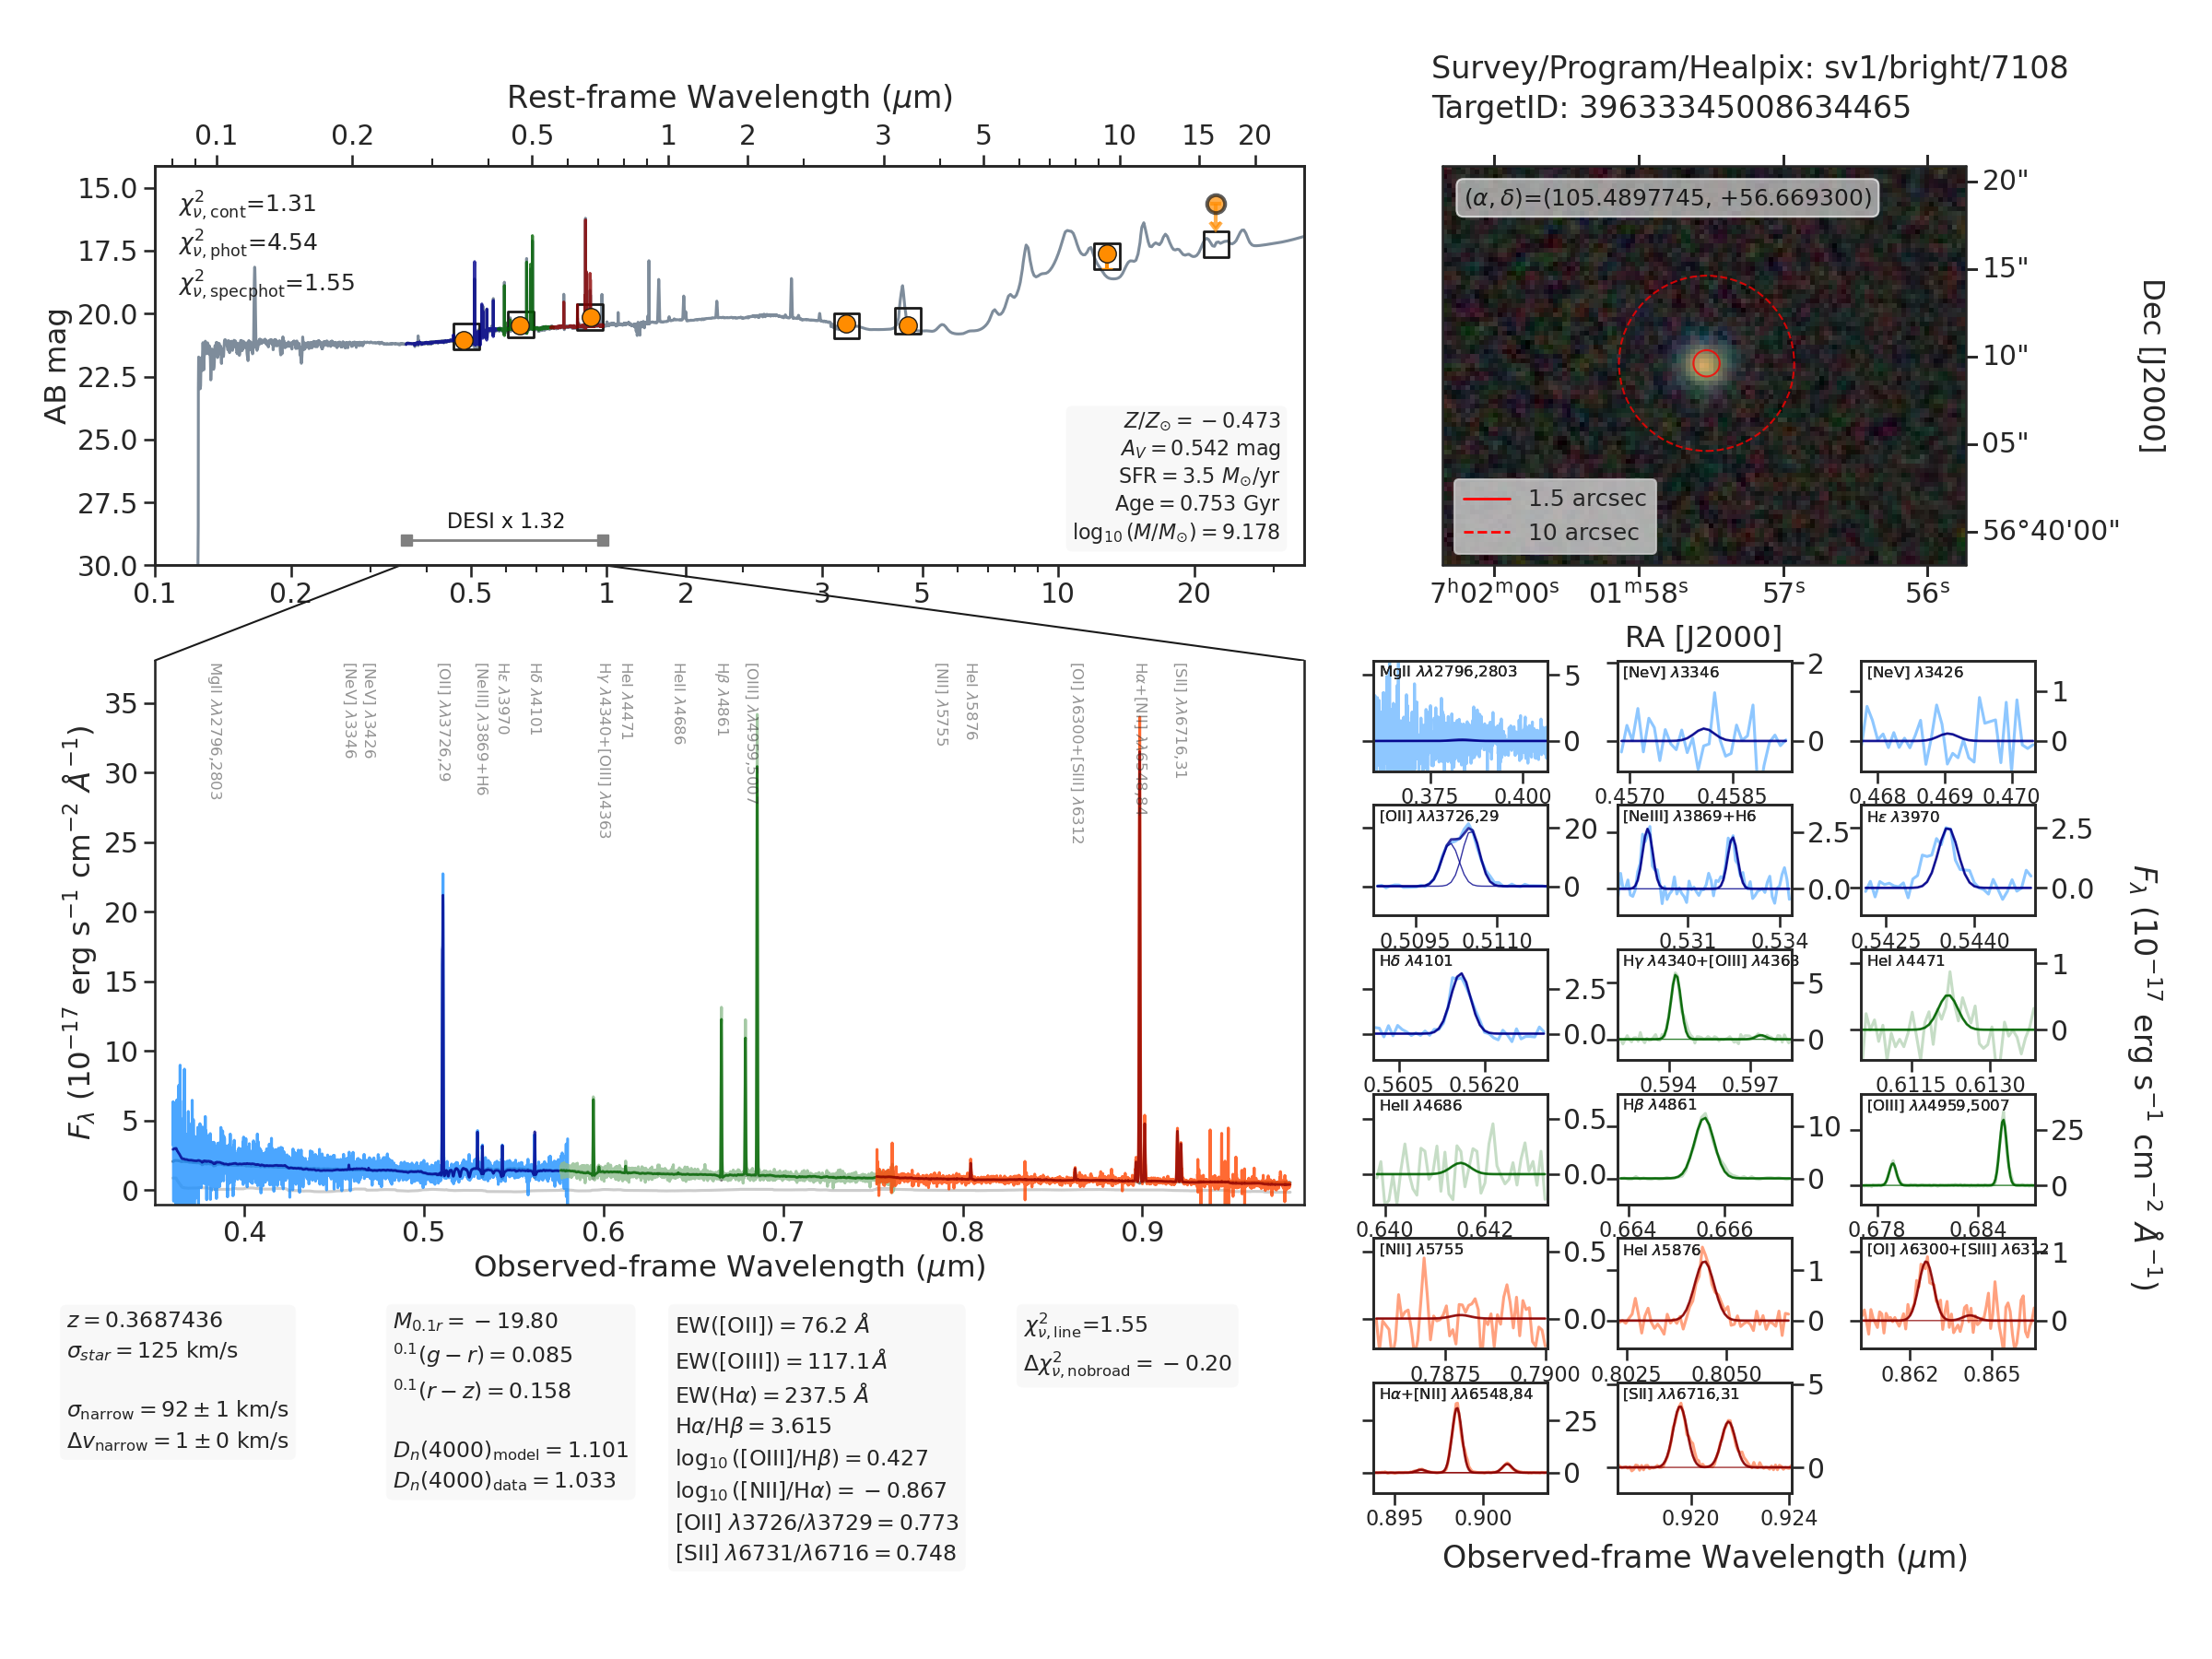
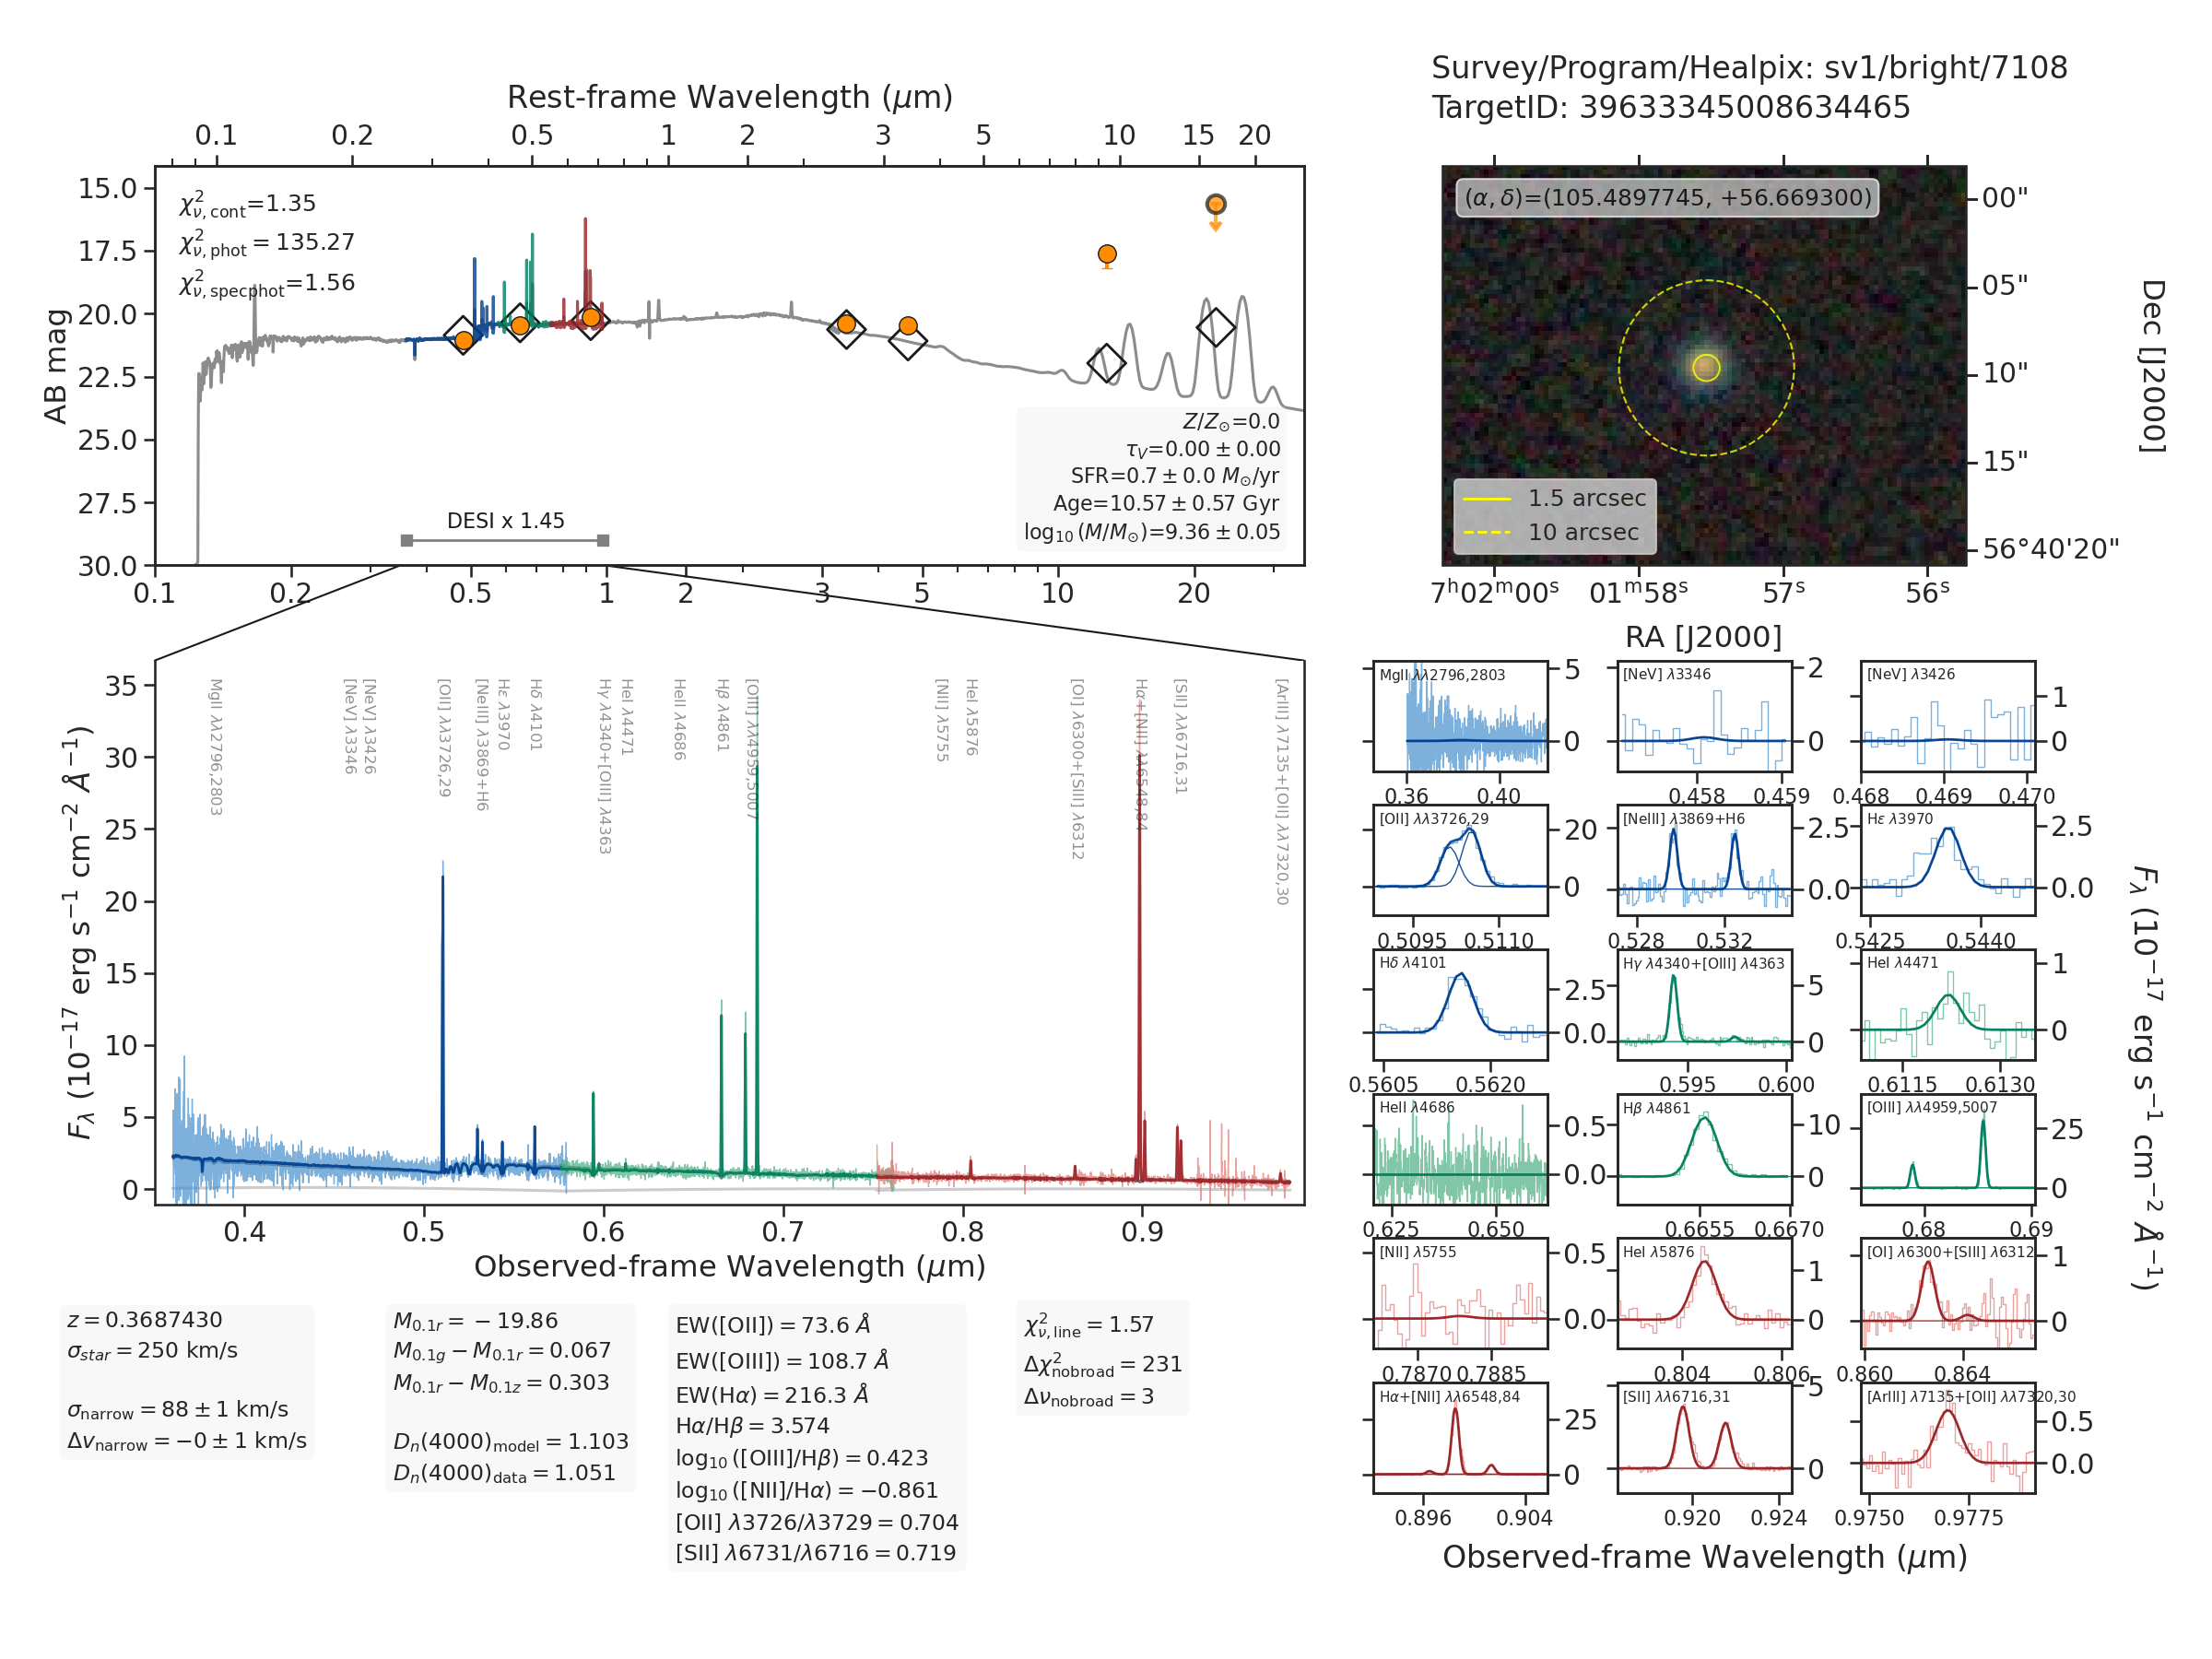
update fastspec and fastphot examples and figures

diff --git a/doc/running.rst b/doc/running.rst
@@ -117,7 +117,7 @@ of an input Redrock catalog, the ``targetid`` of the object of interest, and
 an output filename::
 
   fastspec $DESI_SPECTRO_REDUX/loa/healpix/sv1/bright/71/7108/redrock-sv1-bright-7108.fits \
-    --targetids 39633345008634465 --outfile fastspec-example.fits
+    --targetids 39633345008634465 --outfile ./fastspec-example.fits
 
 .. dropdown:: Click to view the logging output.
 
@@ -169,22 +169,25 @@ of the output file. Visualize the results using ``fastqa``::
 |
 
 .. figure:: _static/fastspec-sv1-bright-7108-39633345008634465.png
+   :target: _static/fastspec-sv1-bright-7108-39633345008634465.png
+
 
 The figure above succinctly summarizes the ``fastspec`` inputs and modeling
 results:
 
-  * *Upper-right panel*: *grz* color cutout from the *Legacy Surveys* centered
-    on the DESI target. The solid and dashed red circle represents the
-    :math:`1.5^{"}` diameter DESI fiber aperture and a :math:`10^{"}` reference
-    aperture, respectively.
+  * *Upper-right panel*: *grz* color cutout from the *Legacy Surveys*
+    centered on the DESI target. The solid and dashed yellow circles
+    represent the :math:`1.5^{"}` diameter DESI fiber aperture and a
+    :math:`10^{"}` reference aperture, respectively.
 
-  * *Middle-left panel*: Three-camera observed DESI spectrophotometry and
-    best-fitting model, shown as light and dark blue, green, and red spectra,
-    respectively, and spanning the observed-frame :math:`0.36-0.98~\mu m`
-    wavelength range. The thin, light gray curve around zero flux shows the
-    *smooth continuum* correction which is added to the thick, dark gray
-    best-fitting stellar population synthesis model (see the :ref:`algorithms
-    <Algorithms>` documentation for details).
+  * *Middle-left panel*: Three-camera observed DESI spectrophotometry
+    and best-fitting model, shown as light and dark blue, green, and
+    red spectra, respectively, and spanning the observed-frame
+    :math:`0.36-0.98~\mu m` wavelength range. The thin, light gray
+    curve around zero flux shows the *smooth continuum* correction
+    which is added to the thick, dark gray best-fitting stellar
+    population synthesis model (see the :ref:`algorithms <Algorithms>`
+    documentation for details).
 
   * *Top-middle panel*: Observed and modeled broadband spectral energy
     distribution between :math:`0.1-35~\mu m` in the observed frame. The orange
@@ -206,31 +209,26 @@ Running fastphot
 ``fastphot`` models only the broadband photometry at the `Redrock`_ redshift,
 and is significantly faster than ``fastspec``. Using the same example object::
 
-  $> fastphot $DESI_SPECTRO_REDUX/iron/healpix/sv1/bright/71/7108/redrock-sv1-bright-7108.fits \
-    --targetids 39633345008634465 --outfile fastphot-example.fits
+  fastphot $DESI_SPECTRO_REDUX/loa/healpix/sv1/bright/71/7108/redrock-sv1-bright-7108.fits \
+    --targetids 39633345008634465 --outfile ./fastphot-example.fits
 
-.. dropdown:: Click to view the informational output printed to the screen after
-              executing this command.
+.. dropdown:: Click to view the logging output.
 
     .. code-block:: none
 
-        INFO:fastspecfit.py:127:parse: /global/homes/i/ioannis/code/desihub/fastspecfit/bin/fastphot /global/cfs/cdirs/desi/spectro/redux/iron/healpix/sv1/bright/71/7108/redrock-sv1-bright-7108.fits --targetids 39633345008634465 --outfile fastphot-example.fits
-        INFO:io.py:665:select: Reading and parsing 1 unique redrockfile(s).
-        INFO:io.py:720:select: specprod=iron, coadd_type=healpix, survey=sv1, program=bright, healpix=7108
-        INFO:io.py:995:select: Gathered photometric metadata for 1 objects in 0.22 sec
-        INFO:io.py:1085:read_and_unpack: Reading 1 spectrum from /global/cfs/cdirs/desi/spectro/redux/iron/healpix/sv1/bright/71/7108/coadd-sv1-bright-7108.fits
-        INFO:io.py:111:unpack_one_spectrum: Pre-processing object 0 [targetid 39633345008634465 z=0.368744].
-        INFO:fastspecfit.py:194:fastspec: Reading and unpacking 1 spectra to be fitted took 3.22 seconds.
-        INFO:fastspecfit.py:51:fastspec_one: Continuum- and emission-line fitting object 0 [targetid 39633345008634465, z=0.368744].
-        INFO:continuum.py:1685:continuum_specfit: Adopting nominal vdisp=125 km/s.
-        WARNING:continuum.py:1243:templates2data: Padding model spectrum due to insufficient wavelength coverage to synthesize photometry.
-        INFO:continuum.py:1706:continuum_specfit: Fitting 120 models took 0.07 seconds.
-        INFO:continuum.py:1726:continuum_specfit: Model Dn(4000)=1.139.
-        INFO:continuum.py:1981:continuum_specfit: Mstar=9.528 Msun, Mr=-19.92 mag, A(V)=0.817, Age=1.679 Gyr, SFR=1.469 Msun/yr, Z/Zsun=-0.992
-        INFO:continuum.py:2022:continuum_specfit: Continuum-fitting took 0.20 seconds.
-        INFO:fastspecfit.py:236:fastspec: Fitting 1 object(s) took 0.86 seconds.
-        INFO:io.py:1759:write_fastspecfit: Writing results for 1 object to fastphot-example.fits
-        INFO:io.py:1816:write_fastspecfit: Writing out took 0.10 seconds.
+        INFO:fastspecfit.py:302:fastspec: Cached stellar templates /global/cfs/cdirs/desi/public/external/templates/fastspecfit/2.0.0/ftemplates-chabrier-2.0.0.fits
+        INFO:fastspecfit.py:303:fastspec: Cached emission-line table /global/common/software/desi/users/ioannis/fastspecfit/py/fastspecfit/data/emlines.ecsv
+        INFO:fastspecfit.py:304:fastspec: Cached photometric filters and parameters /global/common/software/desi/users/ioannis/fastspecfit/py/fastspecfit/data/legacysurvey-dr9.yaml
+        INFO:fastspecfit.py:305:fastspec: Cached cosmology table /global/common/software/desi/users/ioannis/fastspecfit/py/fastspecfit/data/desi_fiducial_cosmology.dat
+        INFO:fastspecfit.py:306:fastspec: Cached Inoue+2014 IGM attenuation parameters.
+        INFO:io.py:728:gather_metadata: specprod=loa, coadd_type=healpix, survey=sv1, program=bright, healpix=7108
+        INFO:io.py:1063:read: Reading 1 spectrum from /global/cfs/cdirs/desi/spectro/redux/loa/healpix/sv1/bright/71/7108/coadd-sv1-bright-7108.fits
+        INFO:fastspecfit.py:151:fastspec_one: Continuum fitting object 0 [targetid 39633345008634465, seed 2032329983, z=0.368743].
+        INFO:continuum.py:1222:continuum_fastphot: Fitting 5 models took 0.05 seconds [rchi2_phot=4.2, ndof=7].
+        INFO:continuum.py:1248:continuum_fastphot: Model Dn(4000)=1.130+/-0.017 tau(V)=0.423+/-0.133 mag vdisp=250 km/s
+        INFO:continuum.py:2049:continuum_specfit: vdisp=250.00 km/s log(M/Msun)=9.32+/-0.22 tau(V)=0.42+/-0.13 Age=5.75+/-3.41 Gyr SFR=3.34+/-0.85 Msun/yr Z/Zsun=0.00
+        INFO:fastspecfit.py:433:fastspec: Fitting 1 object(s) took 2.86 seconds.
+        INFO:io.py:1649:write: Writing 1 object to ./fastphot-example.fits
 
 |
 
@@ -238,24 +236,28 @@ And to generate the QA::
 
   $> fastqa fastphot-example.fits --outdir ./
 
-.. dropdown:: Click to view the informational output printed to the screen after
-              executing this command.
+.. dropdown:: Click to view the logging output.
 
     .. code-block:: none
 
-        INFO:fastqa:53:parse: /global/homes/i/ioannis/code/desihub/fastspecfit/bin/fastqa fastphot-example.fits --outdir ./
-        INFO:io.py:1716:read_fastspecfit: Read 1 object(s) from fastphot-example.fits
-        INFO:fastqa:131:main: Building QA for 1 objects.
-        INFO:io.py:665:select: Reading and parsing 1 unique redrockfile(s).
-        INFO:io.py:720:select: specprod=iron, coadd_type=healpix, survey=sv1, program=bright, healpix=7108
-        INFO:io.py:995:select: Gathered photometric metadata for 1 objects in 0.10 sec
-        INFO:io.py:1085:read_and_unpack: Reading 1 spectrum from /global/cfs/cdirs/desi/spectro/redux/iron/healpix/sv1/bright/71/7108/coadd-sv1-bright-7108.fits
-        INFO:io.py:111:unpack_one_spectrum: Pre-processing object 0 [targetid 39633345008634465 z=0.368744].
-        INFO:fastspecfit.py:656:qa_fastspec: timeout 15 wget -q -o /dev/null -O ./tmp.fastphot-sv1-bright-7108-39633345008634465.jpeg "https://www.legacysurvey.org/viewer/jpeg-cutout?ra=105.48977452498902&dec=56.669300058331935&width=114&height=87&layer=ls-dr9"
-        INFO:fastspecfit.py:1343:qa_fastspec: Writing ./fastphot-sv1-bright-7108-39633345008634465.png
-        INFO:fastqa:241:main: QA for everything took: 6.19 sec
+        INFO:qa.py:1447:parse: /global/common/software/desi/users/ioannis/fastspecfit/bin/fastqa fastphot-example.fits --outdir ./
+        INFO:io.py:1530:read_fastspecfit: Read 1 object(s) from fastphot-example.fits
+        INFO:qa.py:1546:fastqa: Building QA for 1 objects.
+        INFO:qa.py:1586:fastqa: Cached stellar templates /global/cfs/cdirs/desi/public/external/templates/fastspecfit/2.0.0/ftemplates-chabrier-2.0.0.fits
+        INFO:qa.py:1587:fastqa: Cached emission-line table /global/common/software/desi/users/ioannis/fastspecfit/py/fastspecfit/data/emlines.ecsv
+        INFO:qa.py:1588:fastqa: Cached photometric filters and parameters /global/common/software/desi/users/ioannis/fastspecfit/py/fastspecfit/data/legacysurvey-dr9.yaml
+        INFO:qa.py:1589:fastqa: Cached cosmology table /global/common/software/desi/users/ioannis/fastspecfit/py/fastspecfit/data/desi_fiducial_cosmology.dat
+        INFO:qa.py:1590:fastqa: Cached Inoue+2014 IGM attenuation parameters.
+        INFO:io.py:728:gather_metadata: specprod=loa, coadd_type=healpix, survey=sv1, program=bright, healpix=7108
+        INFO:io.py:1063:read: Reading 1 spectrum from /global/cfs/cdirs/desi/spectro/redux/loa/healpix/sv1/bright/71/7108/coadd-sv1-bright-7108.fits
+        INFO:qa.py:675:qa_fastspec: https://www.legacysurvey.org/viewer/jpeg-cutout?ra=105.48977452498902&dec=56.669300058331935&width=114&height=87&layer=ls-dr9
+        INFO:qa.py:1395:qa_fastspec: Writing ./fastphot-sv1-bright-7108-39633345008634465.png
 
-.. image:: _static/fastphot-sv1-bright-7108-39633345008634465.png
+|
+
+.. figure:: _static/fastphot-sv1-bright-7108-39633345008634465.png
+   :target: _static/fastphot-sv1-bright-7108-39633345008634465.png
+
 
 Refer to the :ref:`fastphot data model<fastphot datamodel>` for a full
 description of the output file.

diff --git a/doc/install.rst b/doc/install.rst
@@ -8,7 +8,7 @@ Installation & Setup
 
 ``FastSpecFit`` can be set up in two ways:
 
-- :ref:`At NERSC<nersc installation>` — for DESI collaborators using the shared software stack.
+- :ref:`At NERSC<nersc installation>` — for DESI collaborators, using the shared software stack.
 - :ref:`On a laptop<laptop installation>` — for interactive work or running on smaller datasets.
 
 .. _nersc installation:
@@ -24,7 +24,7 @@ software stack::
   source /global/cfs/cdirs/desi/software/desi_environment.sh main
   module load fastspecfit/main
 
-To load a specific tagged version, replace ``main`` with the desired
+To load a specific tagged versions, replace ``main`` with the desired
 release, for example::
 
   source /global/cfs/cdirs/desi/software/desi_environment.sh 26.3
@@ -33,14 +33,15 @@ release, for example::
 JupyterHub
 ~~~~~~~~~~
 
-To use ``FastSpecFit`` in `JupyterHub`_, install its Jupyter kernel
-once. For the ``main`` branch, do::
+To use ``FastSpecFit`` within NERSC's `JupyterHub`_, first install the
+appropriate Jupyter kernel (one time). Then, to access the ``main``
+branch::
 
   mkdir -p ${HOME}/.local/share/jupyter/kernels/fastspecfit-main
   wget -O ${HOME}/.local/share/jupyter/kernels/fastspecfit-main/kernel.json \
     https://raw.githubusercontent.com/desihub/fastspecfit/main/etc/jupyter-kernel.json
 
-Or, to always track the latest tagged release::
+Or, to use the latest tagged release::
 
   mkdir -p ${HOME}/.local/share/jupyter/kernels/fastspecfit-latest
   wget -O ${HOME}/.local/share/jupyter/kernels/fastspecfit-latest/kernel.json \
@@ -93,15 +94,16 @@ Install FastSpecFit
 Data Dependencies
 ~~~~~~~~~~~~~~~~~
 
-Running ``FastSpecFit`` on DESI spectra requires four additional data products,
-each pointed to by an environment variable.
+Running ``FastSpecFit`` on DESI data requires four additional data
+products, each pointed to by an environment variable.
 
 ``DESI_SPECTRO_REDUX``
-   Root directory of the DESI spectroscopic reduction outputs. The products
-   within are organized according to the `DESI data model`_; the `DESI data
-   organization`_ page describes the full on-disk layout. The DESI
-   `Early Data Release (EDR)`_ and `Data Release 1 (DR1)`_ are publicly
-   available.
+   Root directory of the DESI spectroscopic reduction outputs. The
+   DESI products are organized according to the `DESI data model`_;
+   the `DESI data organization`_ page describes the full on-disk
+   layout. The DESI `Early Data Release (EDR)`_ and `Data Release 1
+   (DR1)`_ are already publicly available, with Data Release 2 (DR2)
+   expected to be public in early 2027.
 
 ``DUST_DIR``
    Location of the `Schlegel, Finkbeiner, & Davis (1998)`_ dust reddening